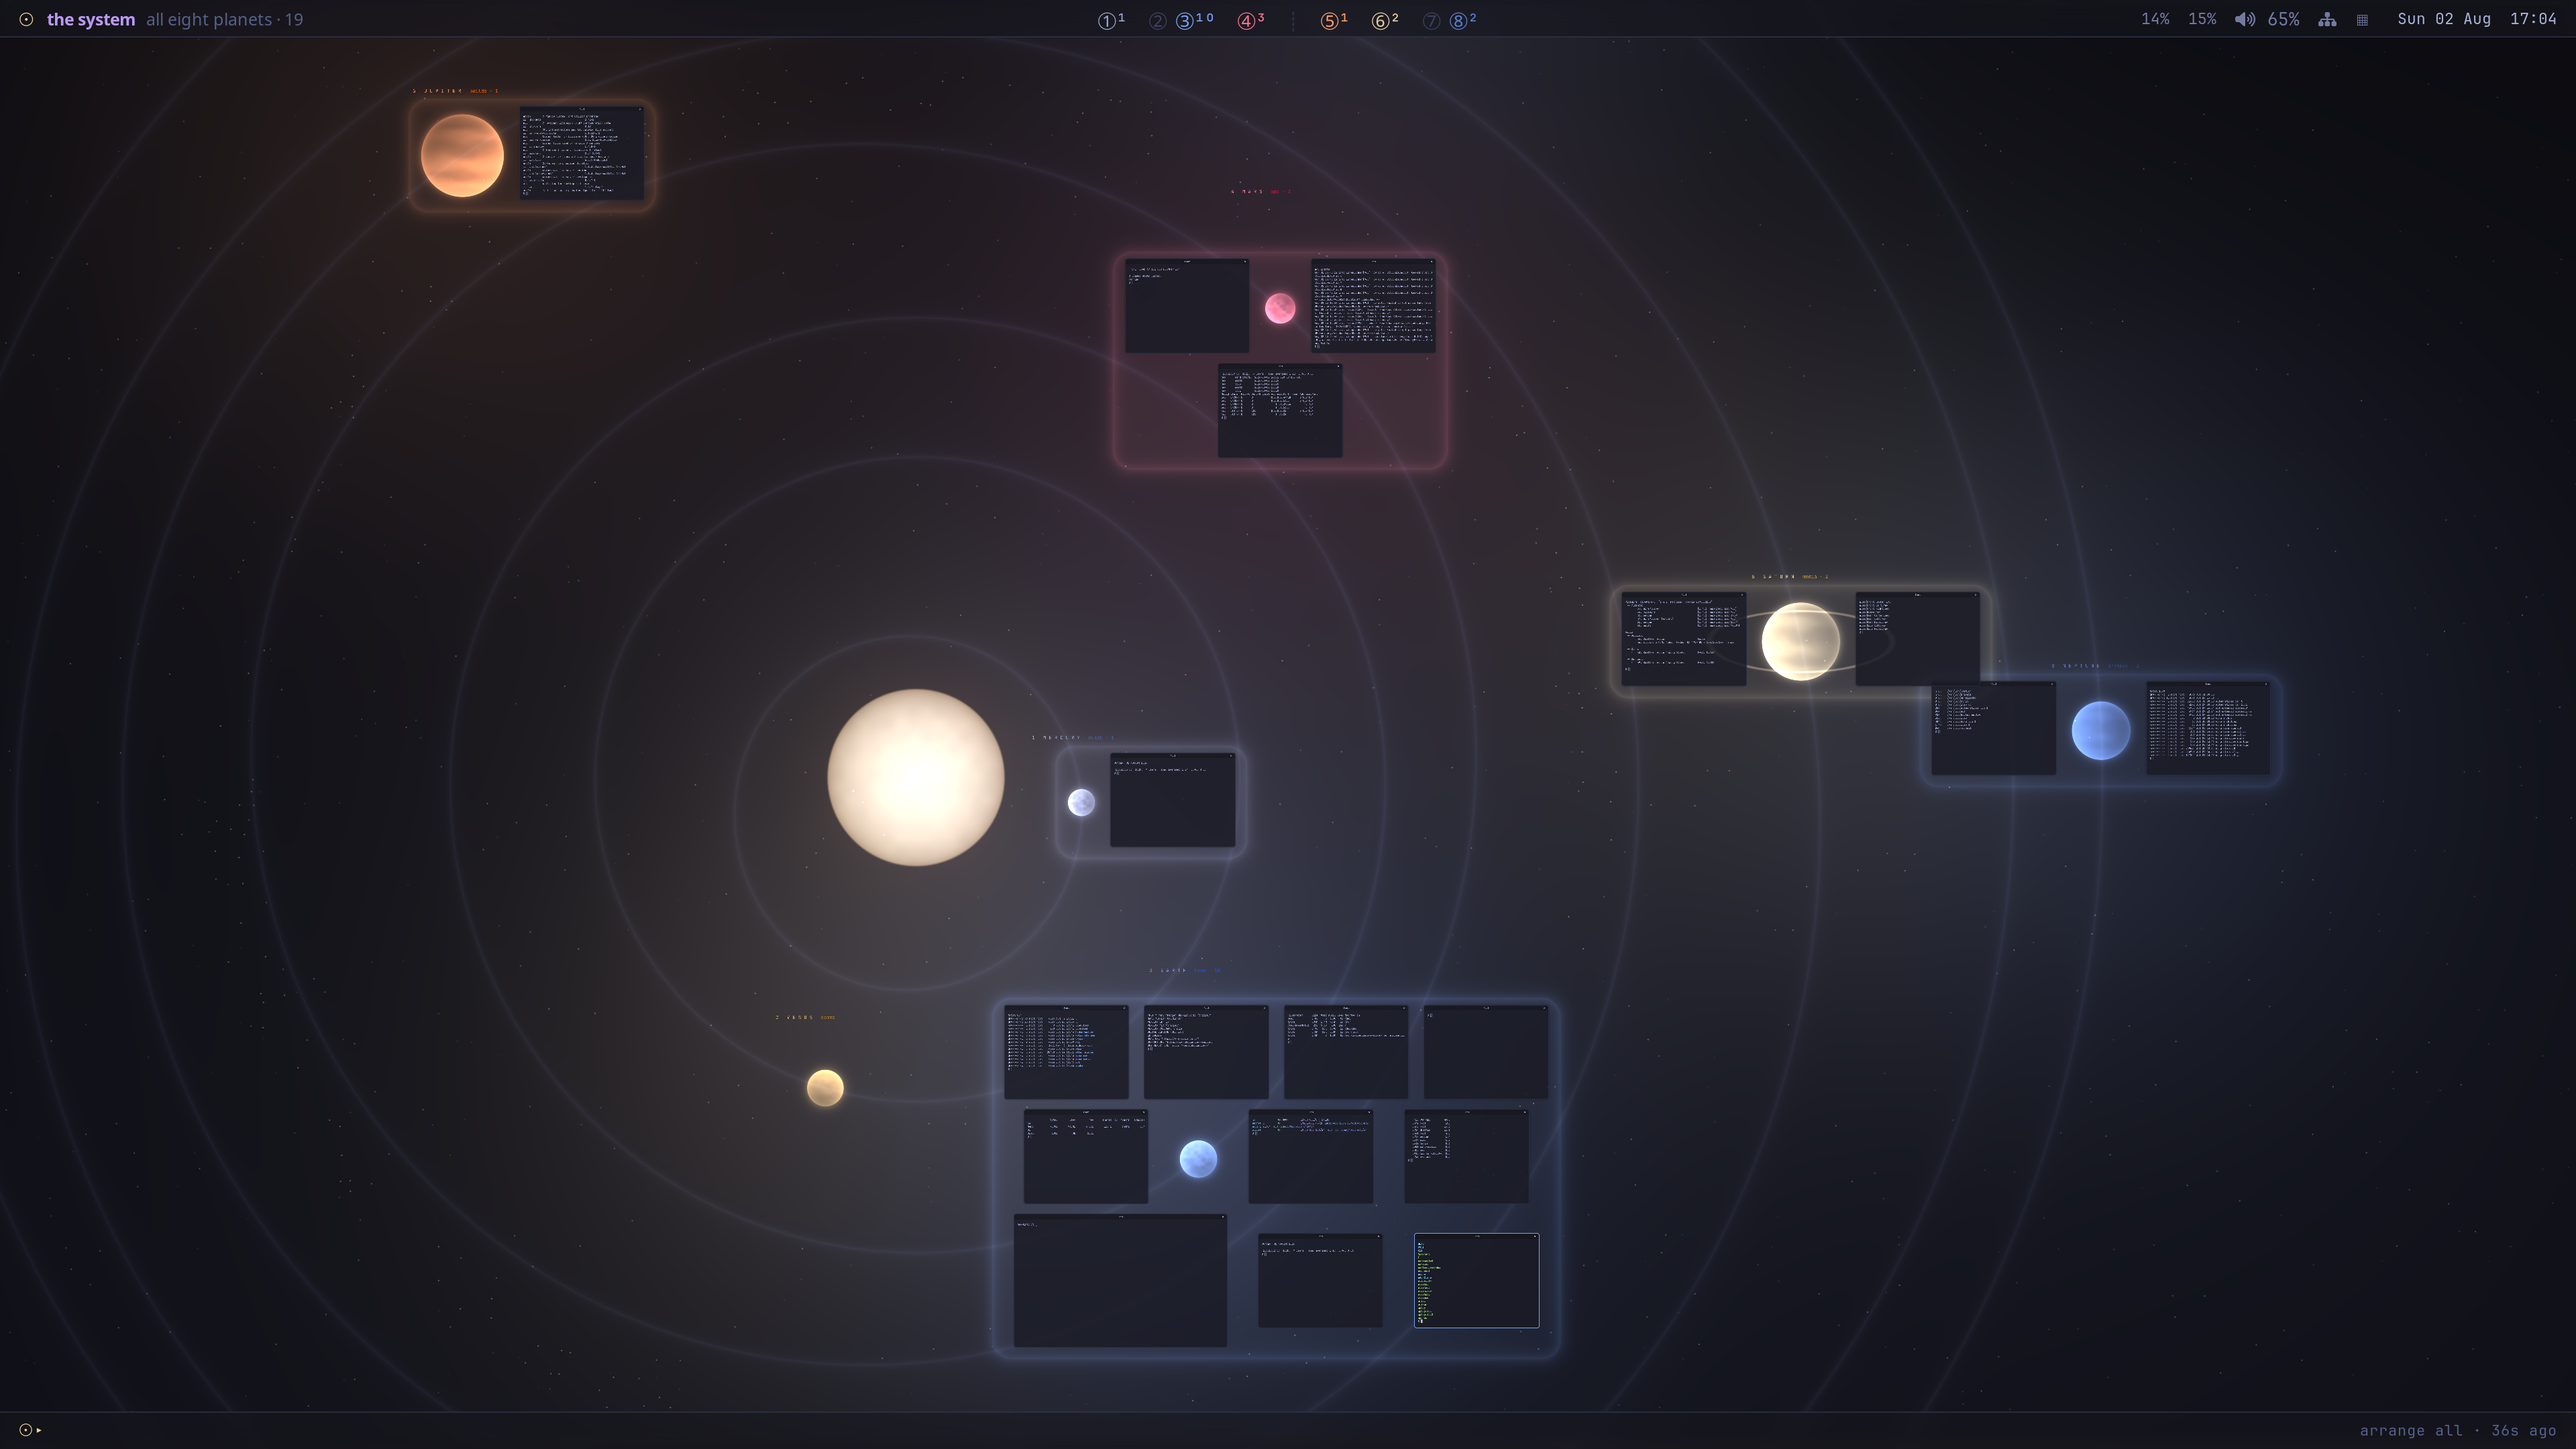
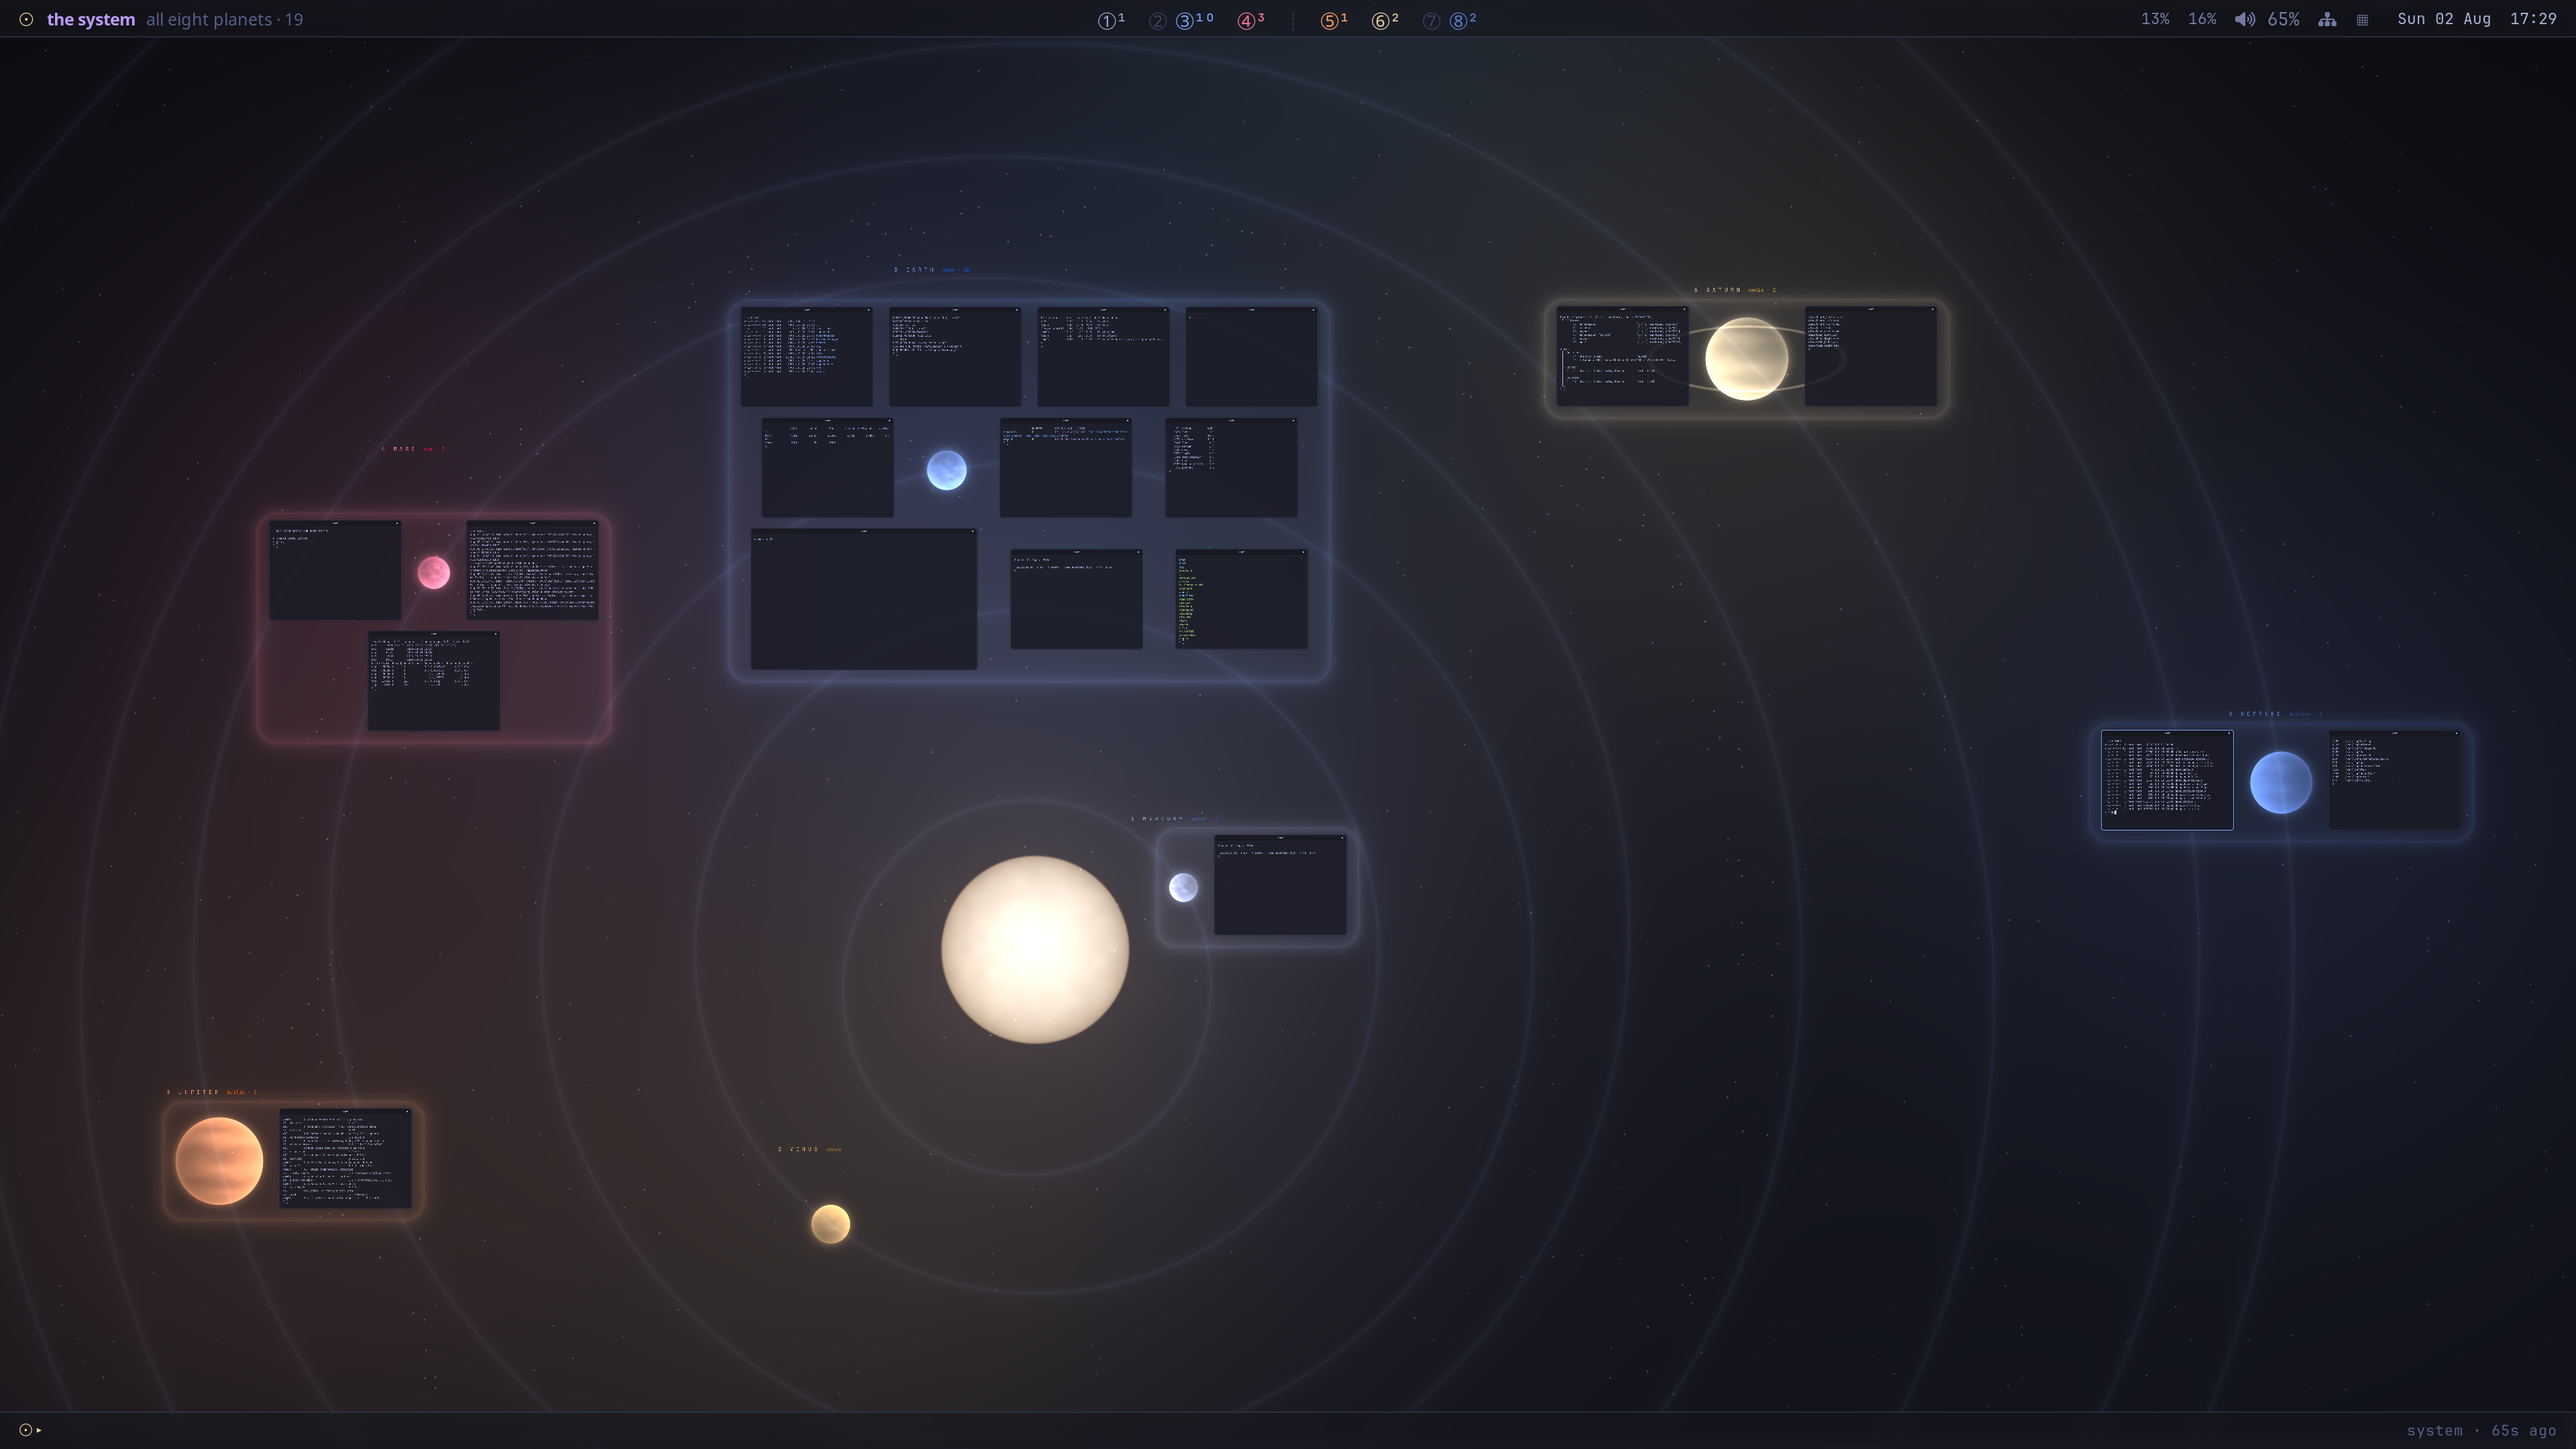
a better sky, four fingers to travel it, and stop calling the palette Tokyo Night
VENUS. It sat 2145 units from Earth, which is closer than a tidy district is
wide — the two neighbourhoods overlapped and Venus spent its time being
mistaken for the edge of Earth. Rather than nudge a planet somewhere it never
was, the sky moves to a date where the real one is better spread:
2029-01-01. Venus to Earth goes 2145 -> 4061, and the tightest pair anywhere
in the system goes 1768 -> 2554. Every position is still solved from Kepler's
equation; it is simply a different real evening. Regenerated through
tools/sol-positions.py, which is what it is for.

FOUR FINGERS. Swipe sideways for the next planet outward or sunward, up for
the whole system, down for the Sun; pinch out to pull back and in to drop into
where you are; hold to tidy. It borrows the muscle memory everybody already
has for switching desktops, and three-finger pan and two-finger zoom are
untouched, so nothing anyone already does changes. On a mouse, right-click
the empty canvas opens the ☉ menu and middle-click frames the system.

There is no double-click to bind: driftwm's mouse triggers are left, right,
middle and the two scroll wheels, so those two clicks are where a
double-click's job went instead.

`sol dive` is new, and is what a pinch-out means once the canvas has places in
it — not "zoom in a bit" but "take me into the one I am looking at". It is
goto pointed at the nearest place, so a second pinch drops into a window
exactly as a second mod+3 would.
[…]

diff --git a/README.md b/README.md
@@ -76,6 +76,21 @@ Press **`mod+/`** at any time for this card on screen.
 Drag to pan, scroll to pan, pinch to zoom — and when you're zoomed out past 45%, clicking any window
 flies you to it.
 
+**Four fingers travel the system**, borrowing the muscle memory you already have for switching
+desktops. Three fingers still pan and two still zoom, so nothing you already do changes:
+
+| | |
+|---|---|
+| swipe left / right | the next planet outward / sunward |
+| swipe up | the whole system |
+| swipe down | back to the Sun |
+| pinch in / out | pull back to the system · drop into where you are |
+| four-finger hold | tidy this planet |
+
+On a mouse, **right-click the empty canvas** for the `☉` menu and **middle-click** for the whole
+system. driftwm has no double-click binding — its mouse triggers are left, right, middle and the two
+scroll wheels — so those two clicks are where a double-click's job went.
+
 ## When a planet fills up
 
 Ten terminals on Earth used to be ten terminals in a heap, each one 28 pixels down and to the right
@@ -325,7 +340,7 @@ likely to need a nudge. Issues and PRs welcome.
 
 - [driftwm](https://github.com/malbiruk/driftwm) by Klim Kostiuk — the infinite-canvas compositor
   that makes any of this possible
-- [Tokyo Night](https://github.com/enkia/tokyo-night-vscode-theme) palette by enkia
+- Several palette hues began in [Tokyo Night](https://github.com/enkia/tokyo-night-vscode-theme) by enkia
 
 ## License
 
